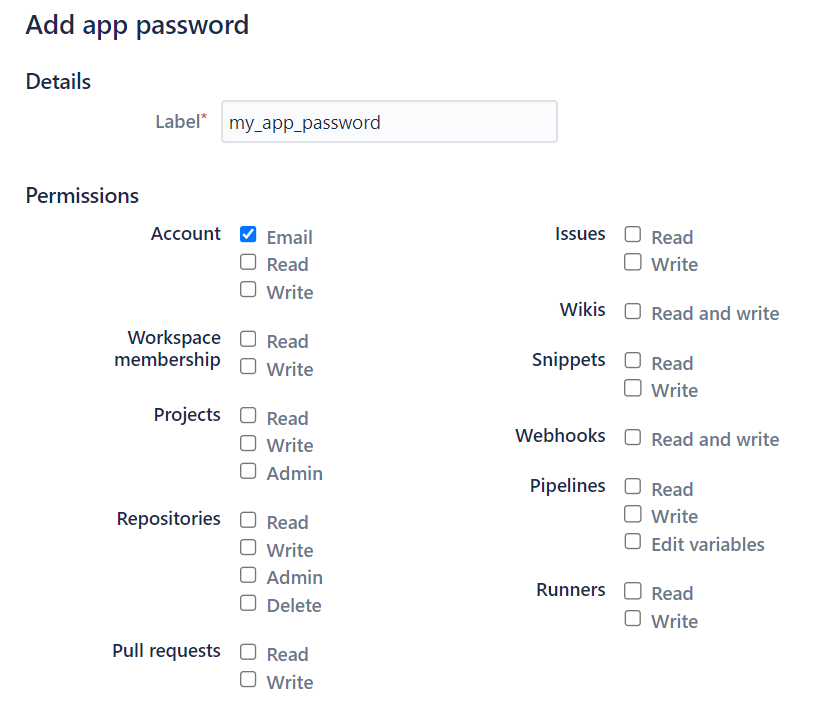
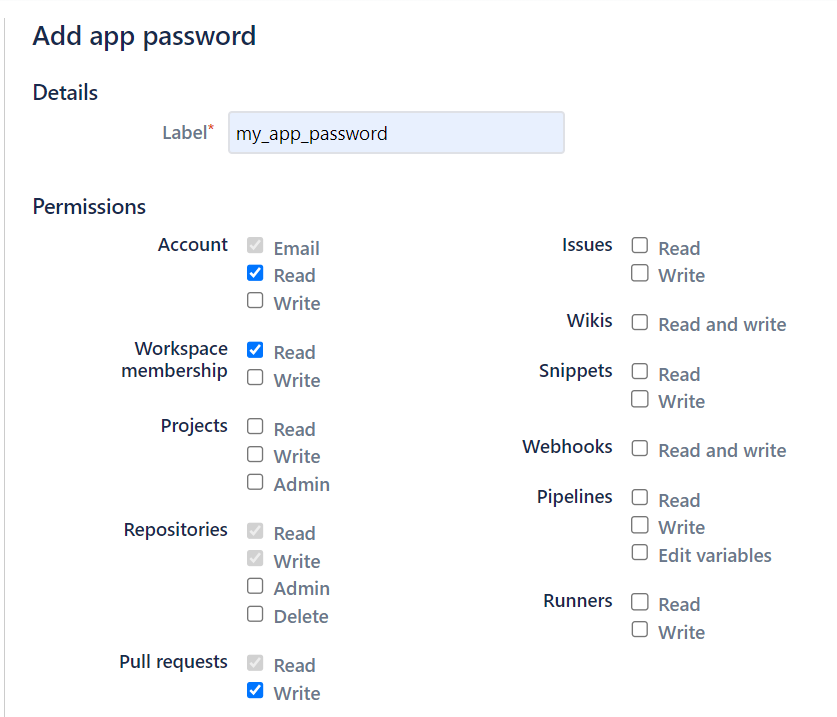
Fixing permissions of bitbucket

diff --git a/deploy-on-own-cloud/add-version-control-integration.md b/deploy-on-own-cloud/add-version-control-integration.md
@@ -104,8 +104,11 @@ Now, for allowing deployment of public Bitbucket repositories, which do not even
 - On the sidebar, select App passwords.
 - Select Create app password. Add following settings:
     - Label : my_app_password
-    - Permissions : 
-        - Account : email
+    - Permissions: 
+        - Account : email, read
+        - Repositories : read, write
+        - Workspace membership : read
+        - Pull requests : read, write
 
 ![Bitbucket app password](../assets/vcs-integration-bitbucket-settings-4.png)
 
